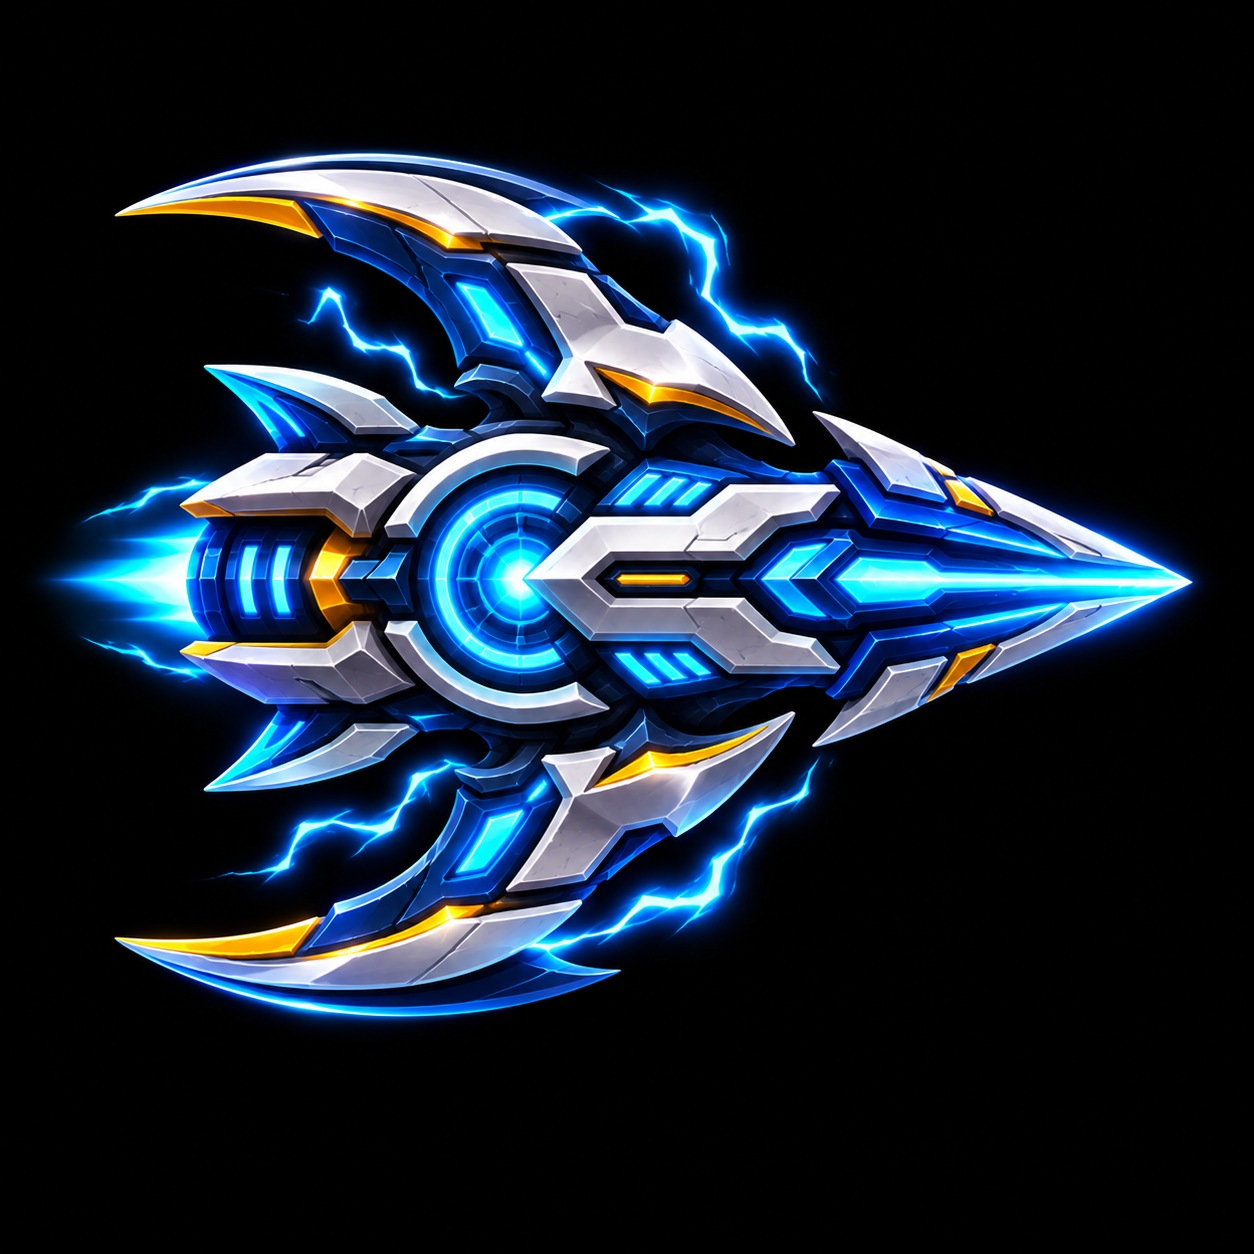
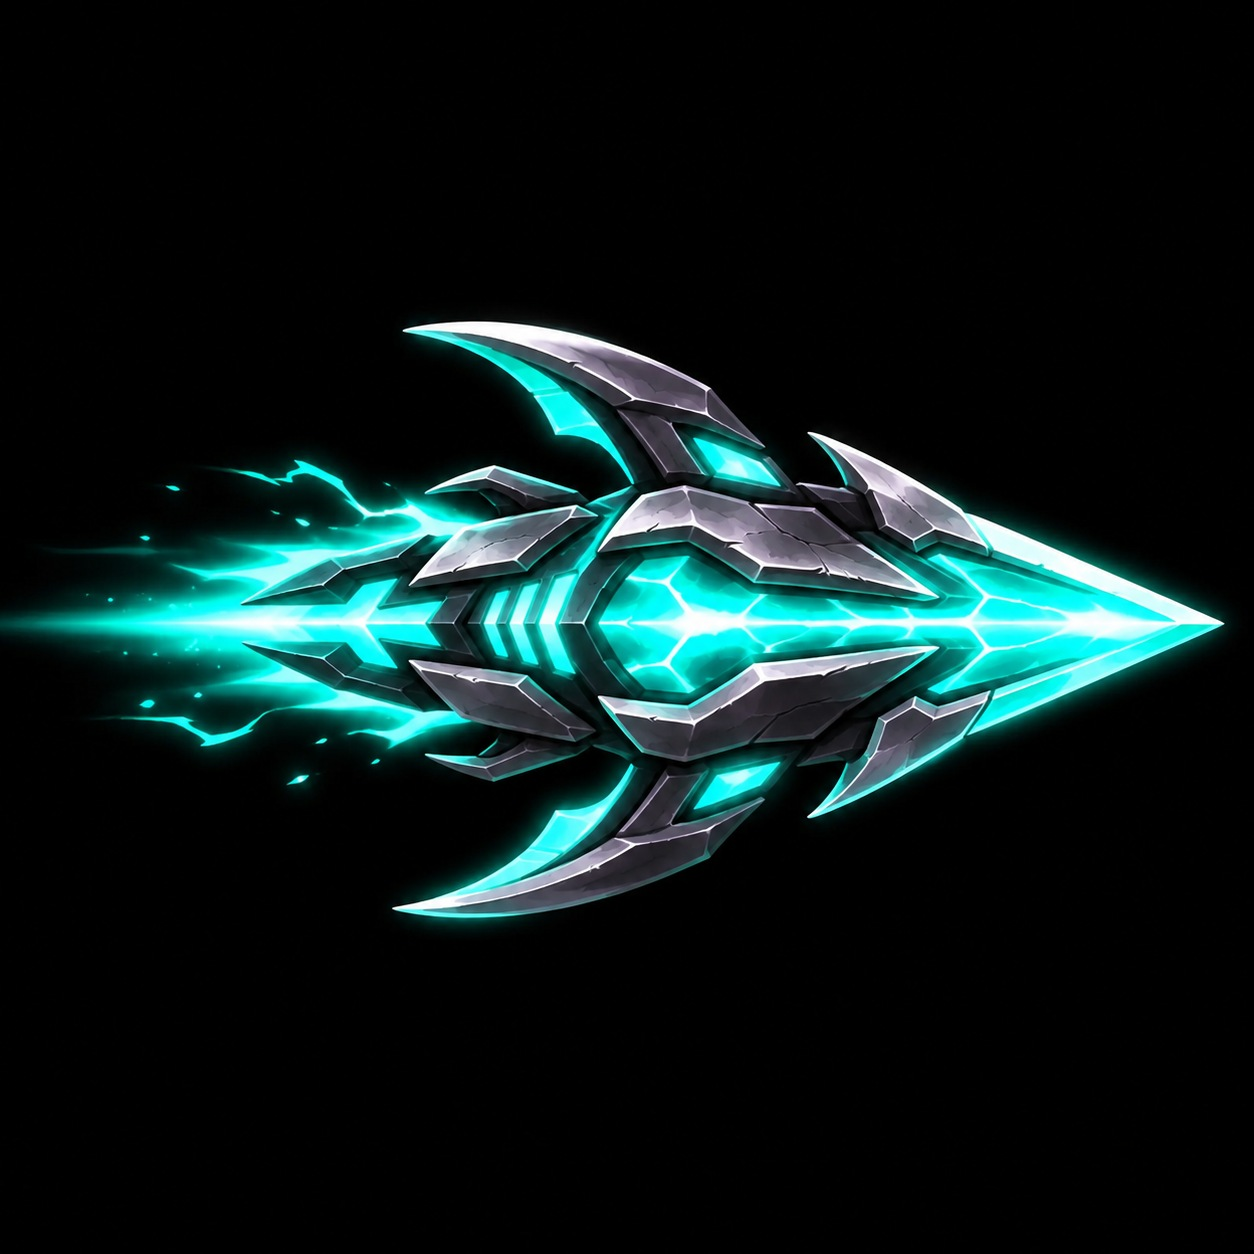
Órbita Final: arte final dos 10 inimigos e 5 chefes (lotes 3 e 4)
- Chefes da arte nova já vêm de frente para o planeta: Colosso e Singularidade giram,
  os outros balançam; param abaixo da barra de HP do chefe
- Meteoro e Bastião viram para a direção do movimento; inimigos com arte um pouco maiores

Claude-Session: https://claude.ai/code/session_018bmc8xkeqYaXvjREbaNy4t

diff --git a/orbita-final/src/render/BattleRenderer.ts b/orbita-final/src/render/BattleRenderer.ts
@@ -366,7 +366,7 @@ export class BattleRenderer {
         v.key = k;
       }
       // inimigos ficam um pouco maiores que a hitbox para leitura em telas pequenas
-      if (v.real) v.body.scale.set((e.def.raio * (e.def.raio < 16 ? 3.4 : 2.9)) / v.body.texture.width);
+      if (v.real) v.body.scale.set((e.def.raio * (e.def.raio < 16 ? 4.2 : 3.4)) / v.body.texture.width);
       else v.body.scale.set(e.def.raio < 16 ? 1.5 : 1.3);
       v.bar.clear();
     }
@@ -408,7 +408,11 @@ export class BattleRenderer {
     this.bossL.x = e.x;
     this.bossL.y = e.y;
     // arte final: a nave aponta para o planeta (para baixo) e balança de leve; procedural gira
-    if (this.bossReal) this.bossSprite.rotation = Math.PI / 2 + Math.sin(this.tempo * 0.8) * 0.06 + (s.fase === 2 ? Math.sin(this.tempo * 6) * 0.03 : 0);
+    // arte final já vem de frente para o planeta (para baixo): esferas giram, naves só balançam
+    if (this.bossReal) {
+      const gira = s.def.id === "colosso_igneo" || s.def.id === "singularidade";
+      this.bossSprite.rotation = gira ? e.rot * 0.35 : Math.sin(this.tempo * 0.8) * 0.06 + (s.fase === 2 ? Math.sin(this.tempo * 6) * 0.03 : 0);
+    }
     else this.bossSprite.rotation = s.def.id === "eclipse" || s.def.id === "construtor_muros" ? 0 : e.rot;
     this.bossSprite.tint = e.flash > 0 ? 0xffd0d0 : 0xffffff;
     const alvo = s.invisivel > 0 ? 0.12 : 1;

diff --git a/orbita-final/src/battle/Enemy.ts b/orbita-final/src/battle/Enemy.ts
@@ -84,7 +84,7 @@ export function updateEnemies(b: Battle, dt: number): void {
         const len = Math.hypot(e.vx, e.vy) || 1;
         e.vx = (e.vx / len) * vel;
         e.vy = (e.vy / len) * vel;
-        e.rot += dt * 2;
+        e.rot = Math.atan2(e.vy, e.vx); // cauda de fogo para trás
         if (e.y > v.bottom + 100 || e.x < v.left - 300 || e.x > v.right + 300) {
           e.alive = false;
           continue;
@@ -108,7 +108,7 @@ export function updateEnemies(b: Battle, dt: number): void {
         }
         e.vx = nx * vel;
         e.vy = ny * vel;
-        e.rot += dt * 0.8;
+        e.rot = Math.atan2(ny, nx);
         break;
       }
       default:

diff --git a/orbita-final/src/battle/Boss.ts b/orbita-final/src/battle/Boss.ts
@@ -15,7 +15,7 @@ export function spawnBoss(b: Battle, id: string, hpMult = 1): Enemy {
   e.xp = 40;
   e.boss = {
     def, fase: 1, t1: 2, t2: 3, t3: 0, ang: 0, invisivel: 0, campo: 0, chegou: false,
-    alvoY: Math.max(b.vis.top + 280, 360),
+    alvoY: Math.max(b.vis.top + 480, 420), // abaixo da barra de HP do chefe no HUD
   };
   b.boss = e;
   b.fx.push({ t: "tremor", força: 12 });
